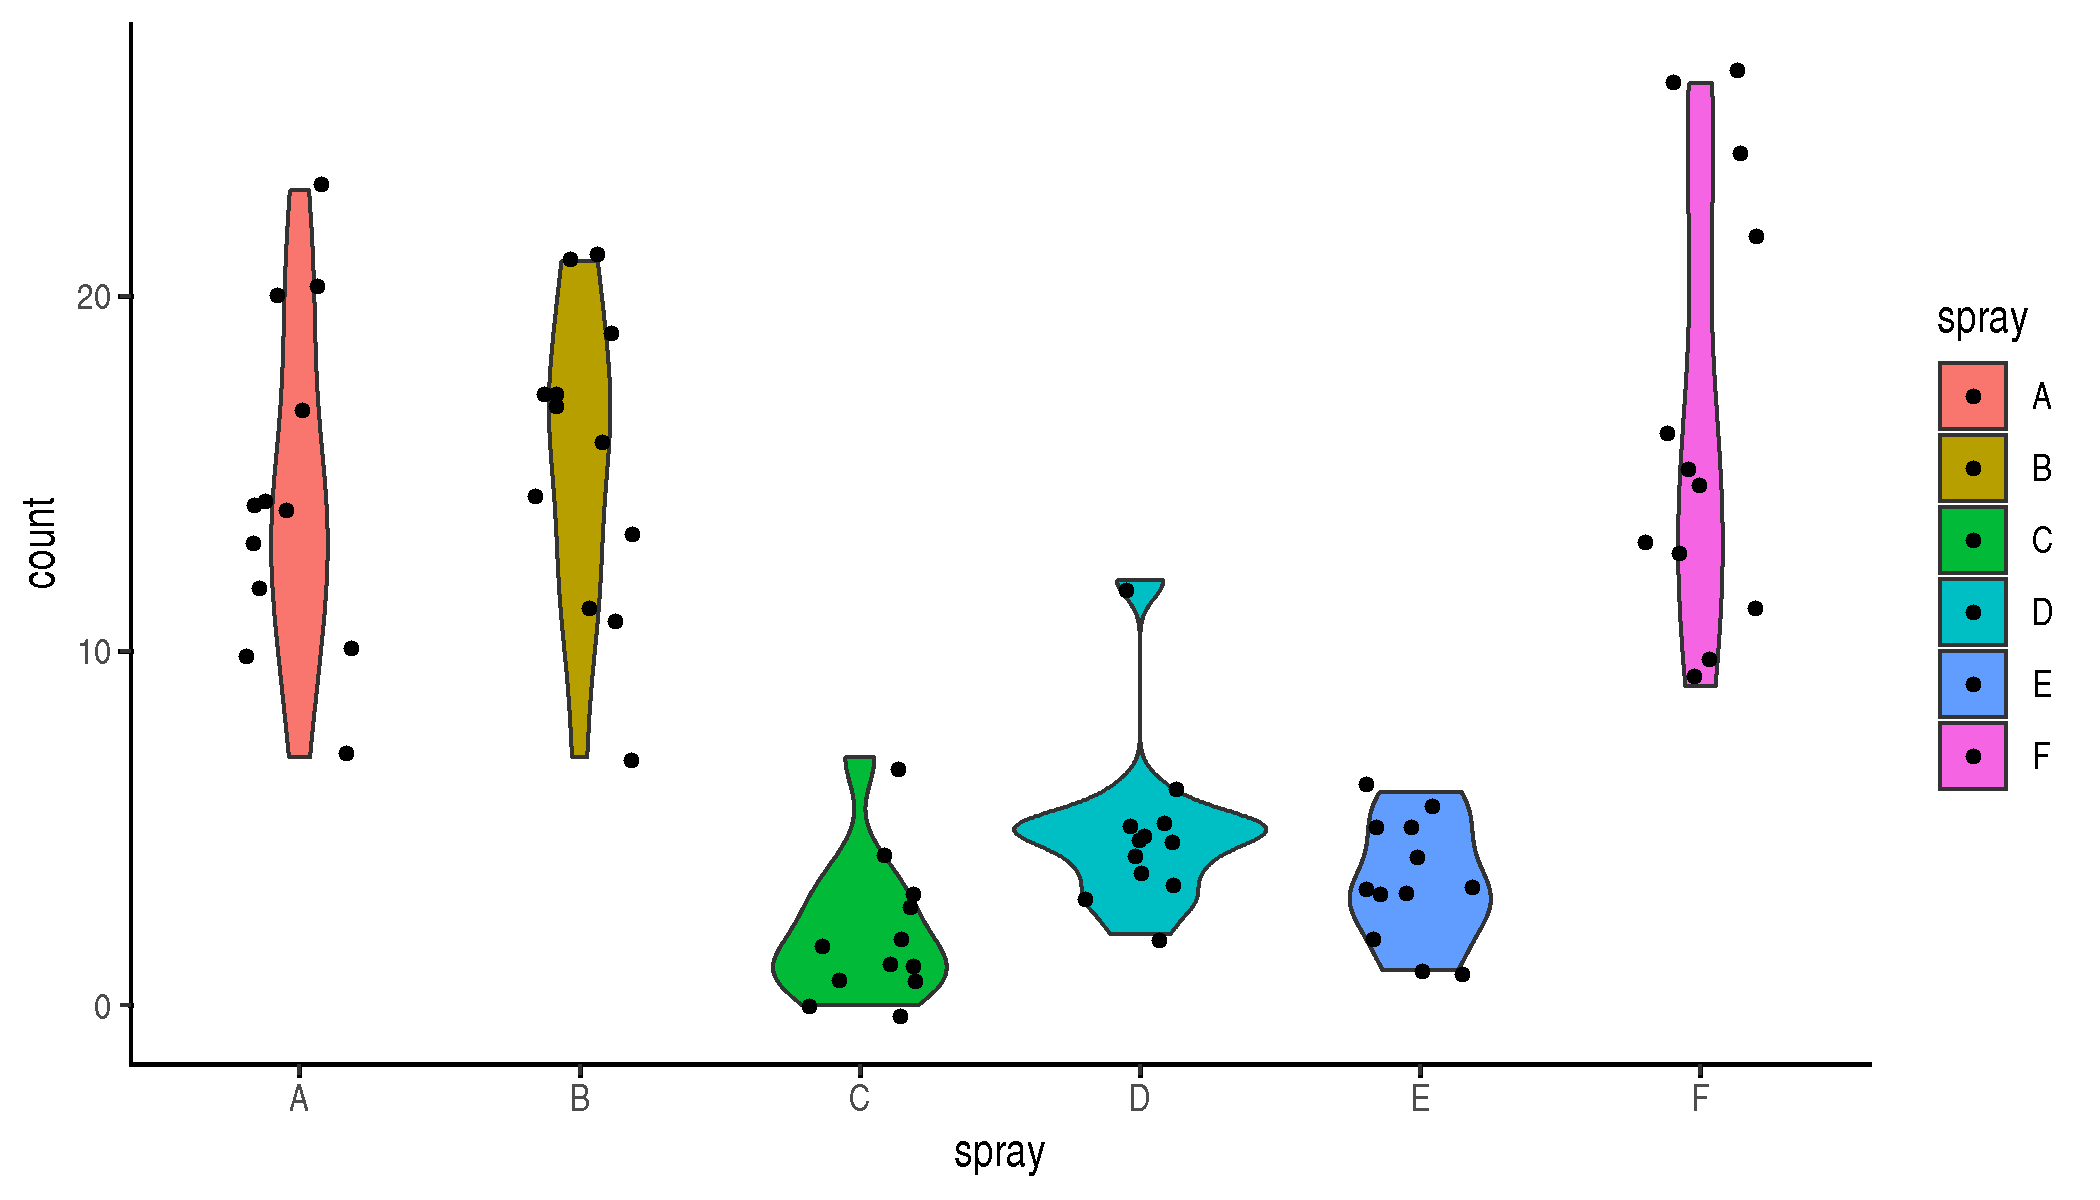
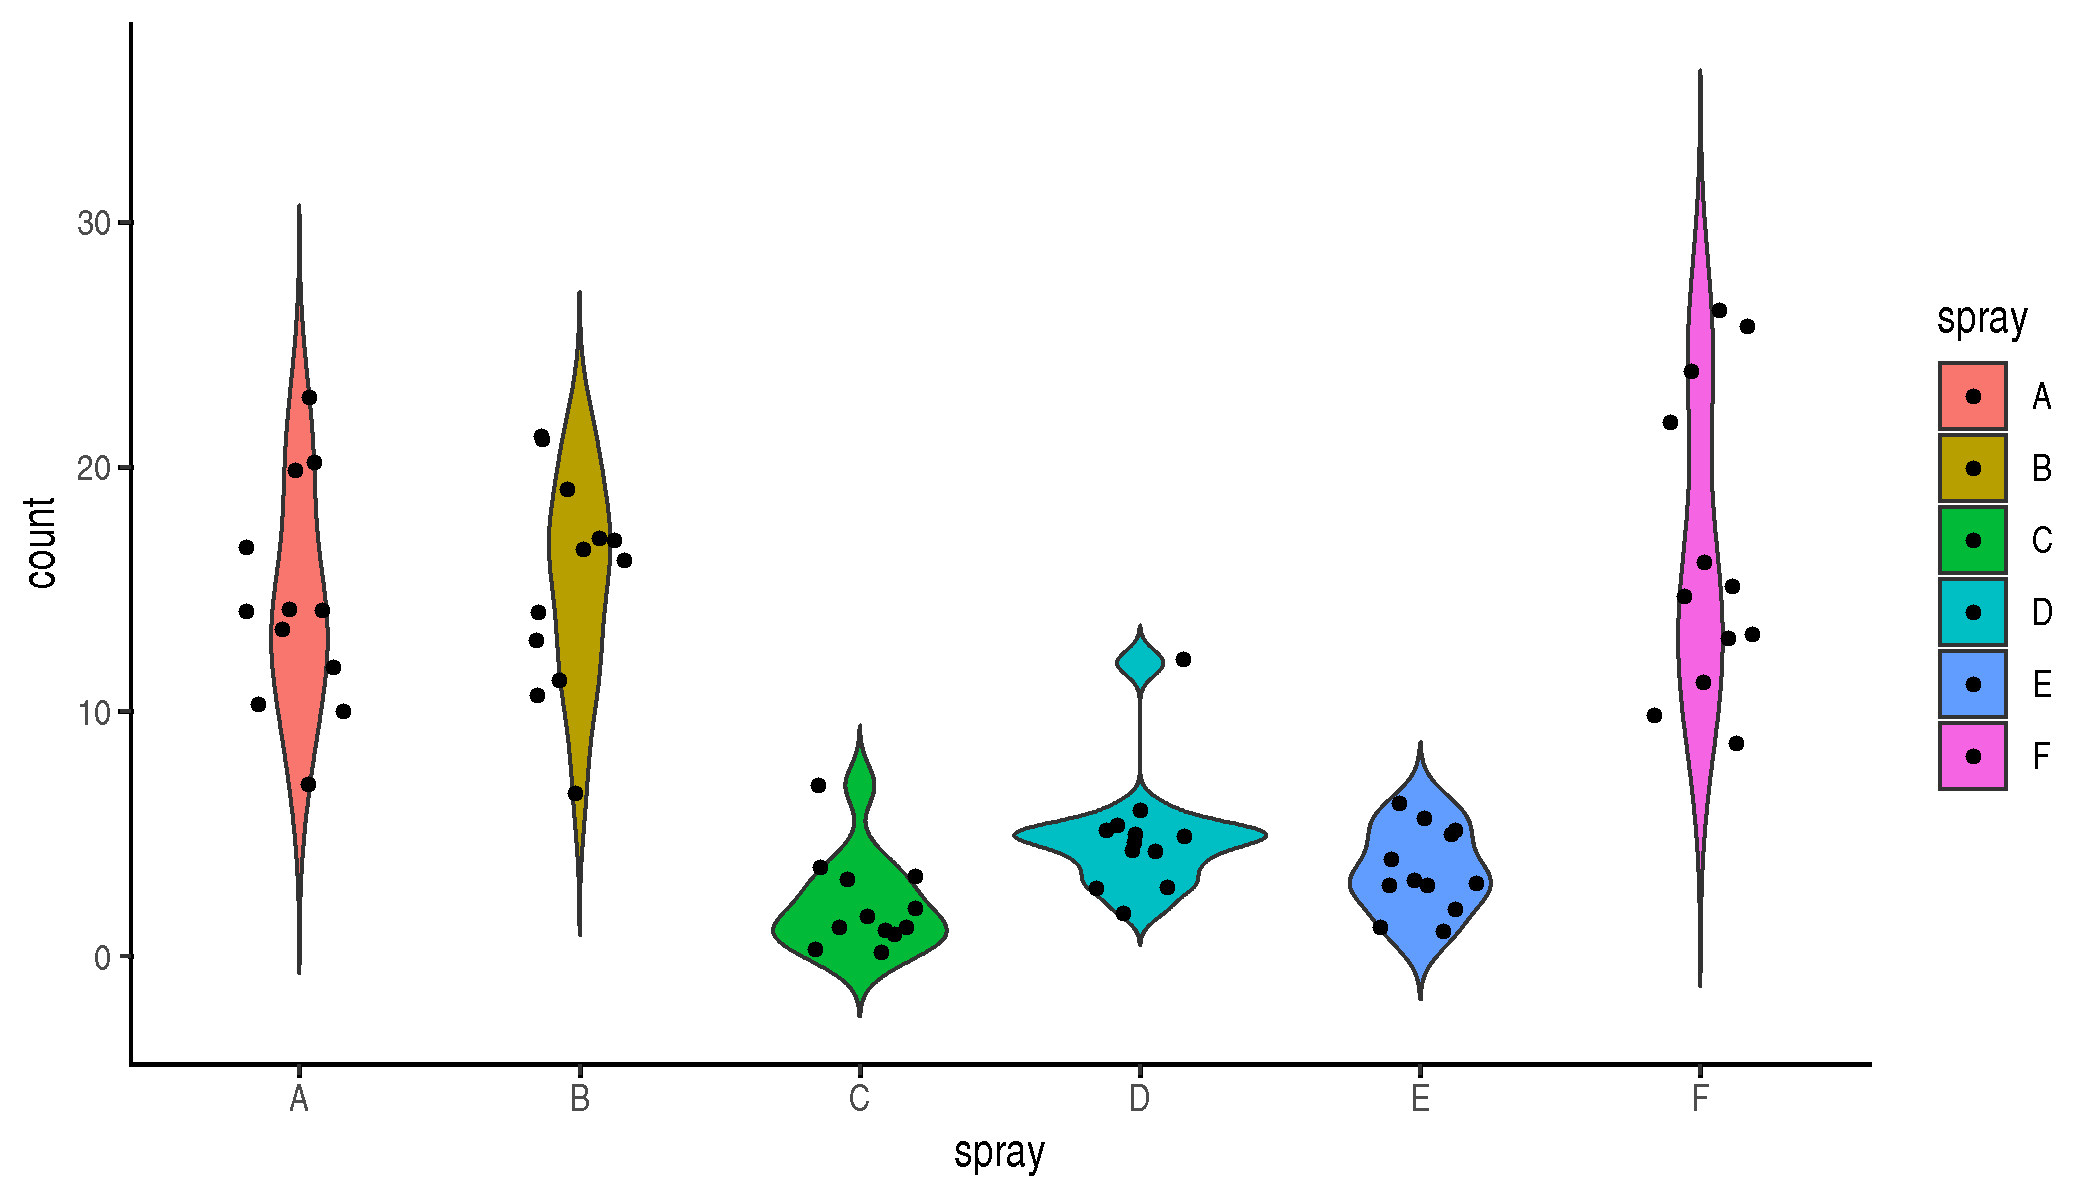
newcommit

diff --git a/_posts/2018-11-13-shape-of-you.md b/_posts/2018-11-13-shape-of-you.md
@@ -93,7 +93,7 @@ Si lo probamos sobre nuestros datos de insecticidas tenemos:
 ```{r}
 > ## Violin
 > ggplot(InsectSprays, aes(x=spray, y=count, fill=spray)) + 
-     geom_violin() + theme_classic() + 
+     geom_violin(trim = FALSE) + theme_classic() + 
      geom_jitter(shape=16, position=position_jitter(0.2))
 
 ```
